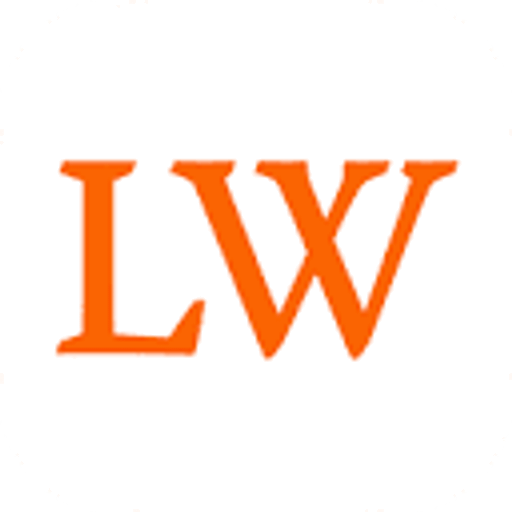
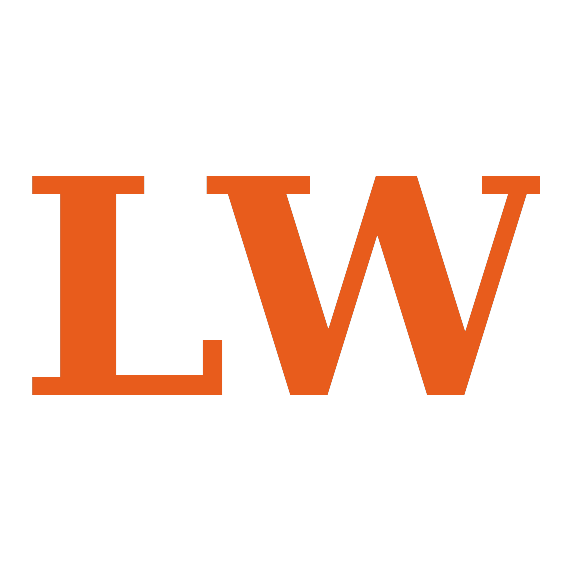
Fix LandWatch outline and USA.gov legibility in used-by strip
Replace the jagged LW plate PNG and tiny circular USA.gov seal with clean
SVG lockups. Use dedicated white SVGs in dark mode instead of CSS invert,
which turned those marks into unreadable silhouettes.

Changed region(s): [[0.3125, 0.2812, 0.9688, 0.7188], [0.0312, 0.2812, 0.4062, 0.7188]]

diff --git a/apps/web/src/components/used-by-strip.tsx b/apps/web/src/components/used-by-strip.tsx
@@ -26,18 +26,20 @@ const LOGOS = [
   {
     name: "LandWatch",
     href: "https://www.landwatch.com",
-    src: "/brands/landwatch.png",
-    // Exact LandWatch LW mark
-    width: 160,
-    height: 160,
+    // Clean SVG LW mark — no plate / white fringe outline
+    src: "/brands/landwatch.svg",
+    srcDark: "/brands/landwatch-white.svg",
+    width: 120,
+    height: 72,
   },
   {
     name: "USA.gov",
     href: "https://www.usa.gov",
-    src: "/brands/usa-gov.png",
-    // Exact USA.gov logo from usa.gov brand assets
-    width: 150,
-    height: 150,
+    // Horizontal lockup so usa/gov text stays fully legible
+    src: "/brands/usa-gov.svg",
+    srcDark: "/brands/usa-gov-white.svg",
+    width: 300,
+    height: 72,
   },
 ] as const;
 
@@ -46,30 +48,45 @@ export function UsedByStrip() {
     <section className="used-by-strip" aria-label="Used by buyers on">
       <p className="used-by-label">Used by buyers on</p>
       <ul className="used-by-logos">
-        {LOGOS.map((logo) => (
-          <li key={logo.name}>
-            <a
-              className={`used-by-logo used-by-logo--${logo.name
-                .toLowerCase()
-                .replace(/\./g, "")
-                .replace(/\s+/g, "-")}`}
-              href={logo.href}
-              target="_blank"
-              rel="noopener noreferrer"
-              title={logo.name}
-            >
-              {/* eslint-disable-next-line @next/next/no-img-element */}
-              <img
-                src={logo.src}
-                alt={`${logo.name} logo`}
-                width={logo.width}
-                height={logo.height}
-                loading="lazy"
-                decoding="async"
-              />
-            </a>
-          </li>
-        ))}
+        {LOGOS.map((logo) => {
+          const slug = logo.name.toLowerCase().replace(/\./g, "").replace(/\s+/g, "-");
+          const darkSrc = "srcDark" in logo ? logo.srcDark : undefined;
+          return (
+            <li key={logo.name}>
+              <a
+                className={`used-by-logo used-by-logo--${slug}`}
+                href={logo.href}
+                target="_blank"
+                rel="noopener noreferrer"
+                title={logo.name}
+              >
+                {/* eslint-disable-next-line @next/next/no-img-element */}
+                <img
+                  className={darkSrc ? "used-by-logo-img used-by-logo-img--light" : "used-by-logo-img"}
+                  src={logo.src}
+                  alt={`${logo.name} logo`}
+                  width={logo.width}
+                  height={logo.height}
+                  loading="lazy"
+                  decoding="async"
+                />
+                {darkSrc ? (
+                  // eslint-disable-next-line @next/next/no-img-element
+                  <img
+                    className="used-by-logo-img used-by-logo-img--dark"
+                    src={darkSrc}
+                    alt=""
+                    aria-hidden
+                    width={logo.width}
+                    height={logo.height}
+                    loading="lazy"
+                    decoding="async"
+                  />
+                ) : null}
+              </a>
+            </li>
+          );
+        })}
       </ul>
     </section>
   );

diff --git a/apps/web/src/app/globals.css b/apps/web/src/app/globals.css
@@ -403,15 +403,22 @@ select {
   object-fit: contain;
 }
 
-/* Square brand marks read smaller — give them more height */
-.used-by-logo--landwatch,
-.used-by-logo--usagov {
-  height: 3.15rem;
+/* Square / compact brand marks */
+.used-by-logo--landwatch {
+  height: 2.35rem;
 }
 
-.used-by-logo--landwatch img,
+.used-by-logo--landwatch img {
+  max-width: 5.5rem;
+}
+
+/* USA.gov is a horizontal wordmark — give it width so text stays readable */
+.used-by-logo--usagov {
+  height: 2.15rem;
+}
+
 .used-by-logo--usagov img {
-  max-width: 3.15rem;
+  max-width: 9.75rem;
 }
 
 .used-by-logo--landcom {
@@ -439,7 +446,12 @@ select {
   transform: translateY(-1px);
 }
 
-/* Dark mode: label + brand marks read as white (logos are color PNGs/SVGs). */
+.used-by-logo-img--dark {
+  display: none;
+}
+
+/* Dark mode: label white; dedicated white marks for LW / USA.gov;
+   invert remaining color wordmarks (transparent PNGs/SVGs). */
 [data-theme="dark"] .used-by-label {
   color: #ffffff;
 }
@@ -448,8 +460,19 @@ select {
   opacity: 1;
 }
 
-[data-theme="dark"] .used-by-logo img {
+[data-theme="dark"] .used-by-logo:not(.used-by-logo--landwatch):not(.used-by-logo--usagov) img {
   filter: brightness(0) invert(1);
+}
+
+[data-theme="dark"] .used-by-logo--landwatch .used-by-logo-img--light,
+[data-theme="dark"] .used-by-logo--usagov .used-by-logo-img--light {
+  display: none;
+}
+
+[data-theme="dark"] .used-by-logo--landwatch .used-by-logo-img--dark,
+[data-theme="dark"] .used-by-logo--usagov .used-by-logo-img--dark {
+  display: block;
+  filter: none;
 }
 
 [data-theme="dark"] .used-by-logo:hover {
@@ -470,14 +493,20 @@ select {
     height: 2.15rem;
   }
 
-  .used-by-logo--landwatch,
-  .used-by-logo--usagov {
-    height: 2.65rem;
+  .used-by-logo--landwatch {
+    height: 2rem;
   }
 
-  .used-by-logo--landwatch img,
+  .used-by-logo--landwatch img {
+    max-width: 4.75rem;
+  }
+
+  .used-by-logo--usagov {
+    height: 1.85rem;
+  }
+
   .used-by-logo--usagov img {
-    max-width: 2.65rem;
+    max-width: 8.25rem;
   }
 
   .used-by-logo--landcom {
